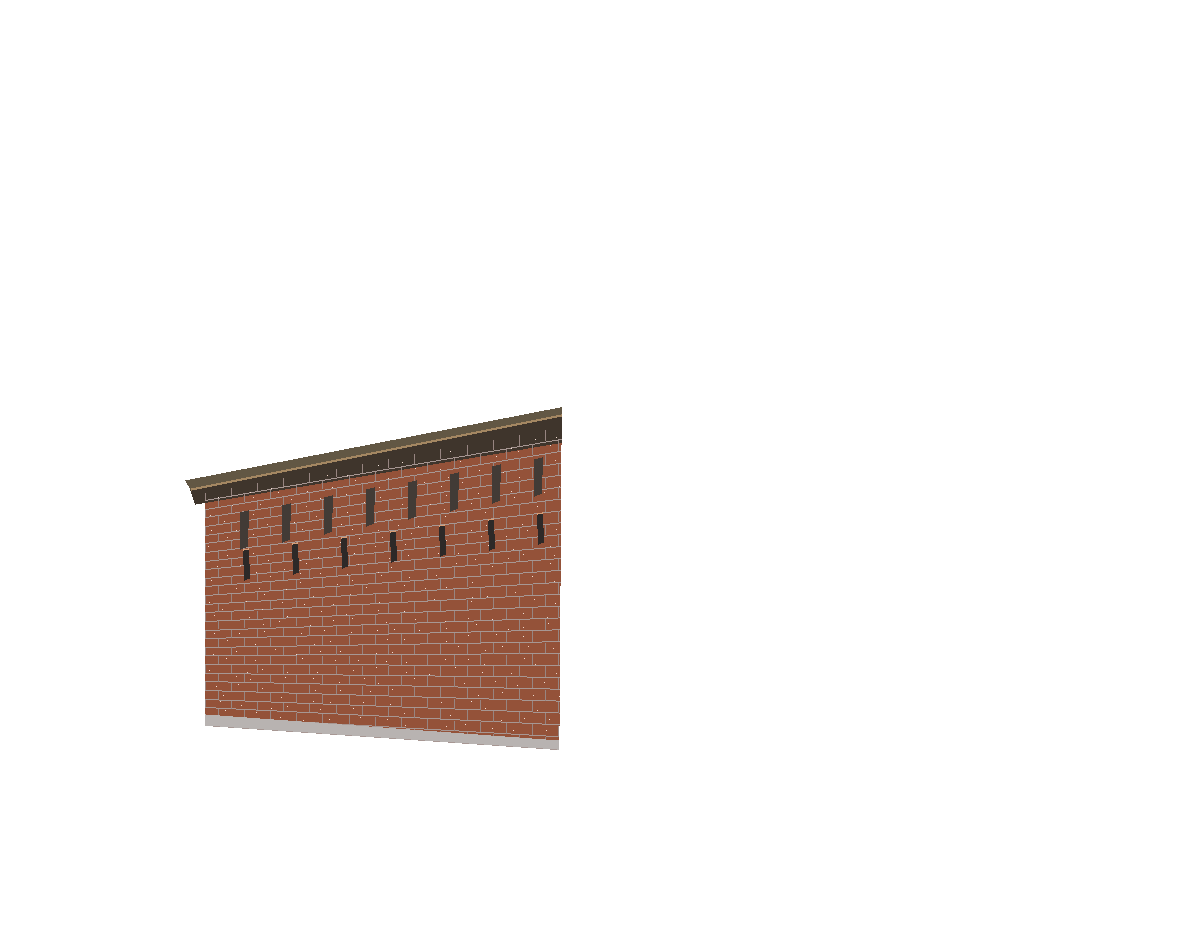
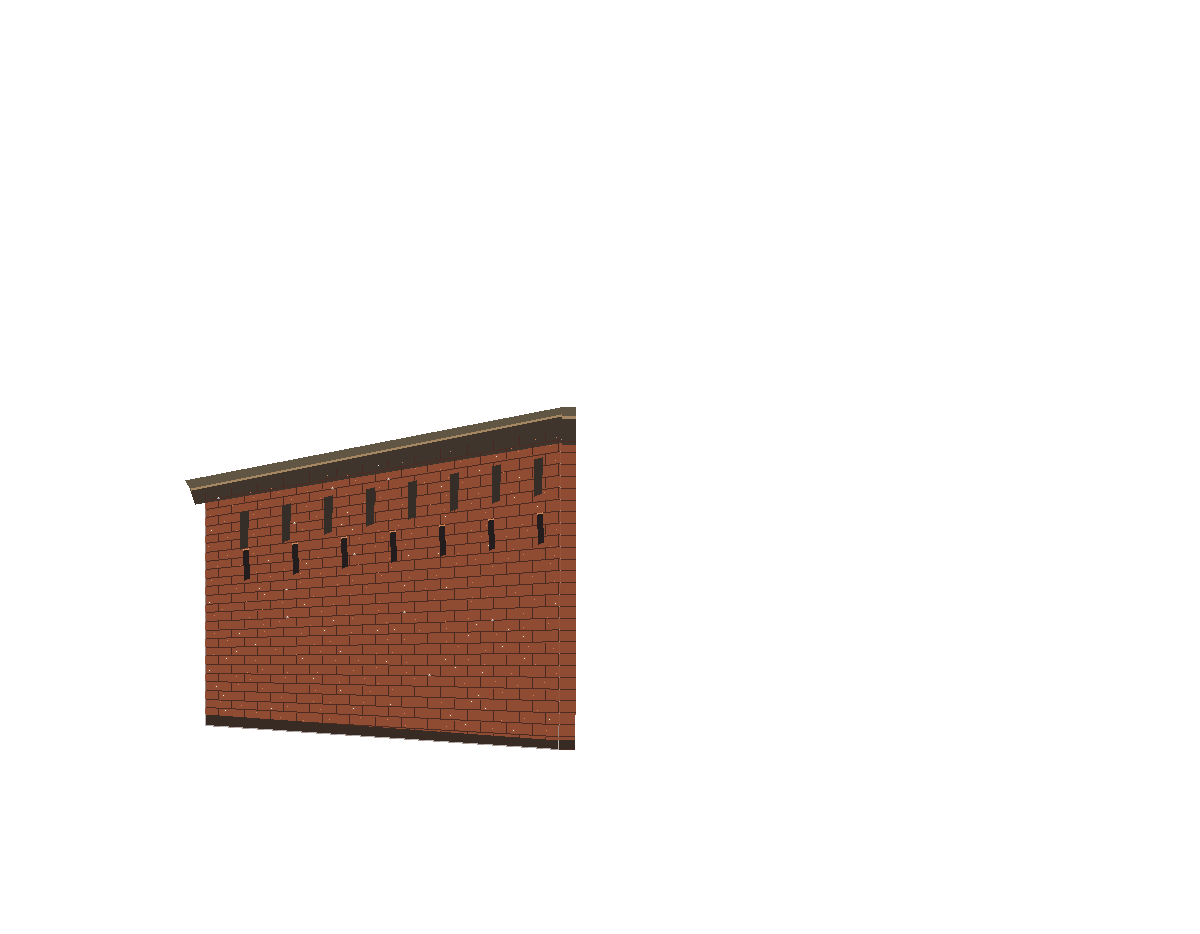
1.4

Changed region(s): [[0.1542, 0.4347, 0.4933, 0.8073]]

diff --git a/wall-lab/app.js b/wall-lab/app.js
@@ -11,6 +11,7 @@ const STORAGE_KEY = "webar-wall-lab-v1";
 
 const DEFAULTS = Object.freeze({
   joinX: 565,       // низ левого края башни, пиксели исходного снимка
+  joinOverlap: 25, // удлинить стену в сторону башни (px на исходном снимке)
   baseY: 750,       // нижний стык стены и башни в пикселях
   length: 9.1,      // условные 3D единицы, НЕ метры
   height: 5.85,
@@ -26,6 +27,7 @@ const DEFAULTS = Object.freeze({
 
 const FIELD_SPEC = [
   ["joinX", "Стык X на снимке (px)", 100, 1050, 1],
+  ["joinOverlap", "Нахлёст стены на башню (px)", 0, 70, 1],
   ["baseY", "Стык у основания Y (px)", 300, 920, 1],
   ["length", "Длина стены", 0.5, 16, 0.1],
   ["height", "Высота стены", 0.5, 9, 0.05],
@@ -162,17 +164,24 @@ function buildWall() {
   wallMount.add(wallModel);
 
   const { length: L, height: H, thickness: T } = settings;
+  // 3D-геометрия продлевается только в сторону примыкания (+X).
+  // Левый внешний торец остаётся на месте при изменении нахлёста.
+  const referenceWorldWidth = 2 * CAMERA_DISTANCE *
+    Math.tan(THREE.MathUtils.degToRad(CAMERA_FOV) / 2) *
+    (IMAGE_WIDTH / IMAGE_HEIGHT);
+  const overlapWorld = (settings.joinOverlap / IMAGE_WIDTH) * referenceWorldWidth;
+  const extendedLength = L + overlapWorld;
   const texture = brickTexture.clone();
   texture.repeat.set(Math.max(1, L / 2.2), Math.max(1, H / 2.4));
   texture.needsUpdate = true;
   const brick = new THREE.MeshStandardMaterial({ map: texture, roughness: 0.99 });
   brick.color.setRGB(settings.brightness, settings.brightness, settings.brightness);
-  const body = addMesh(wallModel, new THREE.BoxGeometry(L, H, T), brick, -L / 2, H / 2, 0);
+  const body = addMesh(wallModel, new THREE.BoxGeometry(extendedLength, H, T), brick, -L / 2 + overlapWorld / 2, H / 2, 0);
   body.name = "Кирпичная стена";
-  addMesh(wallModel, new THREE.BoxGeometry(L + 0.06, 0.16, T + 0.10), capStone, -L / 2, 0.08, 0).name = "Цоколь";
+  addMesh(wallModel, new THREE.BoxGeometry(extendedLength + 0.06, 0.16, T + 0.10), capStone, -L / 2 + overlapWorld / 2, 0.08, 0).name = "Цоколь";
   if (settings.roof) {
-    addMesh(wallModel, new THREE.BoxGeometry(L + 0.20, 0.22, T + 0.34), timber,
-      -L / 2, H + 0.14, 0).name = "Деревянная кровля";
+    addMesh(wallModel, new THREE.BoxGeometry(extendedLength + 0.20, 0.22, T + 0.34), timber,
+      -L / 2 + overlapWorld / 2, H + 0.14, 0).name = "Деревянная кровля";
   }
   if (settings.slots) {
     const n = Math.max(1, Math.min(32, Math.floor(L / 0.66)));
@@ -206,16 +215,21 @@ function updateWallPlacement() {
   anchor.hidden = !settings.showAnchor;
 }
 
+// Левый реальный край башни на ЭТОЙ эталонной фотографии.
+// Маска накрывает соединение и не позволяет виртуальному кирпичу
+// попадать поверх существующей башни. Для нового ракурса нужна своя маска.
+const TOWER_OCCLUSION_POLYGON = [
+  [575, 392], [842, 392], [842, 610], [847, 743], [866, 847],
+  [576, 847], [573, 765], [574, 740], [574, 555]
+];
+
 function drawTowerOcclusion() {
   const ctx = maskCanvas.getContext("2d");
   ctx.clearRect(0, 0, IMAGE_WIDTH, IMAGE_HEIGHT);
   if (cameraMode || !settings.occlusion || !image.complete || image.naturalWidth === 0) return;
   // Ручная маска по фотографии, чтобы 3D-стена не рисовалась поверх башни.
   // Это маска ТОЛЬКО для текущего контрольного снимка.
-  const polygon = [
-    [561, 392], [842, 392], [842, 610], [847, 743], [866, 847],
-    [557, 847], [560, 765], [573, 740], [567, 555]
-  ];
+  const polygon = TOWER_OCCLUSION_POLYGON;
   ctx.save();
   ctx.beginPath();
   ctx.moveTo(...polygon[0]);
@@ -407,12 +421,27 @@ function renderOverlayAtReferenceSize() {
   out.height = IMAGE_HEIGHT;
   const ctx = out.getContext("2d");
   ctx.drawImage(renderer.domElement, 0, 0, IMAGE_WIDTH, IMAGE_HEIGHT);
+  // Стена на непрозрачном кирпиче не должна показывать фон сквозь себя.
+  // Для гладких границ сохраняем частичную альфу только по самому краю.
+  const imageData = ctx.getImageData(0, 0, IMAGE_WIDTH, IMAGE_HEIGHT);
+  const pixels = imageData.data;
+  const pixelsW = IMAGE_WIDTH;
+  for (let y = 1; y < IMAGE_HEIGHT - 1; y += 1) {
+    for (let x = 1; x < IMAGE_WIDTH - 1; x += 1) {
+      const i = (y * pixelsW + x) * 4 + 3;
+      if (pixels[i] < 50) continue;
+      if (pixels[i - 4] > 50 && pixels[i + 4] > 50 &&
+          pixels[i - pixelsW * 4] > 50 && pixels[i + pixelsW * 4] > 50) {
+        pixels[i] = 255;
+      }
+    }
+  }
+  ctx.putImageData(imageData, 0, 0);
   if (settings.occlusion && !customReference) {
     // Удаляем альфу там, где на исходном снимке проходит реальная башня.
     ctx.globalCompositeOperation = "destination-out";
     ctx.beginPath();
-    const polygon = [[561,392],[842,392],[842,610],[847,743],[866,847],
-                     [557,847],[560,765],[573,740],[567,555]];
+    const polygon = TOWER_OCCLUSION_POLYGON;
     ctx.moveTo(...polygon[0]);
     for (const pt of polygon.slice(1)) ctx.lineTo(...pt);
     ctx.closePath();ctx.fill();
